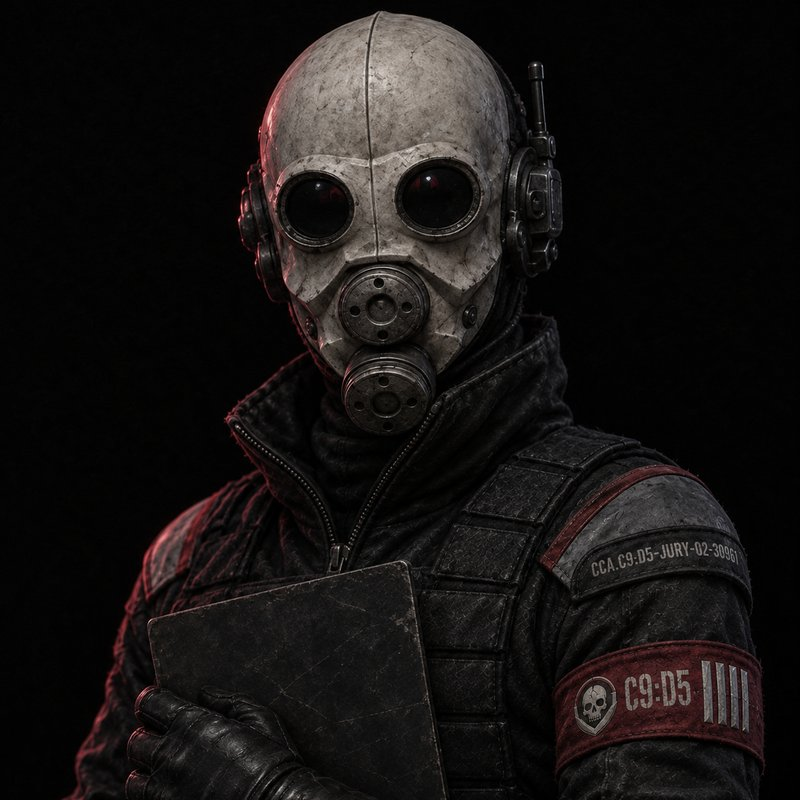
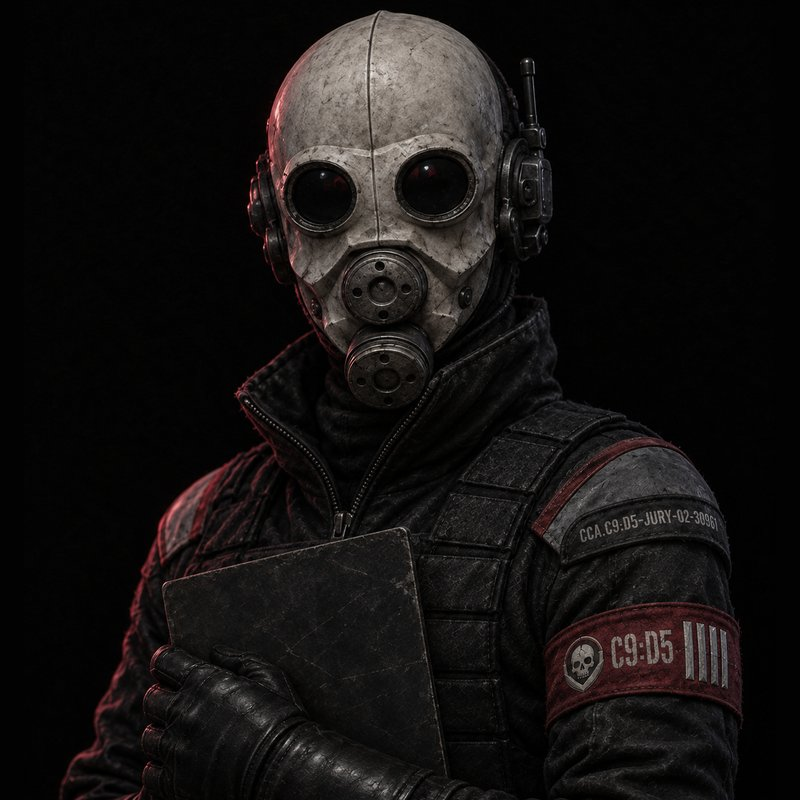
Recrop contact thumbnails to show the whole head; pad non-square portraits
Claude-Session: https://claude.ai/code/session_01FPxW8sjExYByq8Hjg1f5Jc

Changed region(s): [[0.0625, 0.0, 0.9688, 1.0]]

diff --git a/sw.js b/sw.js
@@ -1,6 +1,6 @@
 /* Service worker: makes the game installable and playable offline.
    Bump VERSION whenever files change so players get the update. */
-const VERSION = 'c9-v35';
+const VERSION = 'c9-v36';
 const SHELL = [
   './',
   './index.html',
